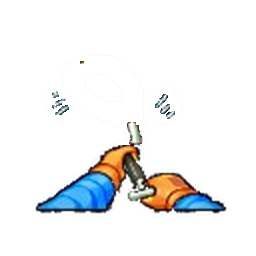
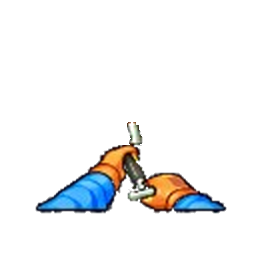
backup: pre-reset snapshot

Changed region(s): [[0.5938, 0.3438, 0.6875, 0.4688], [0.1875, 0.3438, 0.2812, 0.4688], [0.3125, 0.2188, 0.3438, 0.25]]

diff --git a/README.md b/README.md
@@ -1,29 +1,38 @@
 # DogBoy (Bắt Chó) — 9/9/2026
 
-Godot 4.7.2 GDScript arcade: bắt chó trên nền làng Việt pixel-art, viewport 1280×720.
+Godot 4.7.2 GDScript arcade: port sát luật [Shiba Catch](GameThamKhao/source/logic.js) trên nền làng Việt pixel, viewport 1280×720.
 
 Godogen ([htdt/godogen](https://github.com/htdt/godogen)) is configured in this repo for asset generation and visual iteration. Stack stays **GDScript** (see `godot.md`). License of the published skills: `GODOGEN_LICENSE.md`.
 
 ## Built
 
 - `project.godot` — 1280×720, canvas_items stretch, Forward Plus
-- `main.tscn` — root scene (Background + ChoCo dog + Catcher)
-- `scripts/auto_scroll_bg.gd` — cover-fit background (`assets/HinhNen/HinhNen1.png`)
-- `scripts/parallax_bg.gd` — parallax scrolling 4 lớp (mountains → village_mid → main → foreground_grass)
-- `scripts/wind_effect.gd` — hiệu ứng gió: lá bay + bụi cuộn từ phải sang trái
-- `scripts/game_layout.gd` — shared dog-lane / catch-zone layout
-- `scripts/dog_runner.gd` — dog crosses R→L on an 8-frame sheet canter; jumps on a miss; turns and sits while being reeled
-- `scripts/catcher.gd` — first-person lasso: idle, ready, windup, swing, catch, miss
-- `scripts/hud.gd` — pixel HUD: score (bone), 60s clock, 3 paw lives, catch spark / miss stamp, play to retry
-- `scripts/main.gd` — injects the 15s throw driver only while Movie Maker is recording
-- `assets/Avatar/swing/` — curated frames: setup from `dong-tac-tay.png`, spin from the 14–23 sheet (15 poses)
-- `assets/HinhNen/layers/` — parallax layers: mountains, village_mid, foreground_grass, wind_particles
-- `test/capture_catcher.gd` — throwaway still-capture helper (globalized-path PNGs)
-- `screenshots/result/video.mp4` — 15s proof clip (miss → catch → miss → catch, HUD score/lives)
+- `main.tscn` — Background + LassoBehind + ChoCo + LassoFront + Catcher + HUD
+- `scripts/game_session.gd` — single source of truth (1/60s): ready/idle/windup/throw/close/tug/caught/retract/break/paused/over
+- `scripts/dog_atlas.gd` — neck in 400×280 cell; `neck_world` after scale/rotate
+- `scripts/dog_runner.gd` — follows session (run / sprint escape / turn / front tug / caught sit). No jump-on-miss
+- `scripts/catcher.gd` — player aim (mouse / ← →), tap to throw or mash tug; no auto-aim
+- `scripts/lasso_draw.gd` — two-half ellipse + pole + quadratic rope + idle reticle
+- `scripts/hud.gd` — 4-digit score, combo +25, 60s clock, tug bars, overlay Sẵn sàng / Tạm dừng / Hết giờ (no paw lives)
+- `scripts/auto_scroll_bg.gd` / `parallax_bg.gd` / `wind_effect.gd` / `game_layout.gd`
+- `assets/Animal/choco_frames.tres` — run / walk / sprint / turn / front + idle/look/jump/caught/sit
+- `assets/Avatar/swing/` — forearm poses with baked lasso stripped (`screenshots/strip_lasso.py`)
+- `test/presentation_driver.gd` — 15s @ 30fps: miss, hit+mash tug, miss, hit+tug
+- `screenshots/result/video.mp4` — proof clip
 
 ## Left
 
-- Coin-op attract loop / title screen (play button art is in `assets/UI/btn_play.png`)
+- PixelLab pass if topping up gens (cleaner pole tip, optional extra hand frames)
+- Longer coin-op attract (overlay start is enough for now)
+
+## Controls
+
+- Aim: mouse X or ← → (100–1180)
+- Throw / tug mash: click or Space (hold does not count; 0.065s rate)
+- Pause: P or Esc
+- Restart after over: play button or R
+
+Scoring: `100 + combo*25` on a won tug. Round is 60s.
 
 ## Godogen
 
@@ -39,18 +48,18 @@ Godogen ([htdt/godogen](https://github.com/htdt/godogen)) is configured in this 
 | Name | Description | Size | Path | Cost |
 |------|-------------|------|------|------|
 | HinhNen1 | Village backdrop | 1280×720 fullscreen | `assets/HinhNen/HinhNen1.png` | existing |
-| Mountains | Distant mountains parallax layer | 1280×720 | `assets/HinhNen/layers/mountains.jpg` | planned |
-| Village Mid | Mid-ground village parallax layer | 1280×720 | `assets/HinhNen/layers/village_mid.jpg` | planned |
-| Foreground Grass | Foreground grass & flowers layer | 1280×720 | `assets/HinhNen/layers/foreground_grass.jpg` | planned |
-| Wind Particles | Wind leaf/dust overlay | 1280×720 | `assets/HinhNen/layers/wind_particles.jpg` | planned |
-| ChoCo walk | 8-frame left canter rearranged from the Animal sheet | 400×280 | `assets/Animal/frames/` (sprint/jump/run), `choco_frames.tres` | user sheet |
-| Catcher sheet | Curated first-person lasso (15 poses) | 256×256 | `assets/Avatar/dong-tac-tay.png`, `assets/Avatar/swing/`, `catcher_frames.tres` | user sheet, local slice |
+| Mountains | Distant mountains parallax layer | 1280×720 | `assets/HinhNen/layers/mountains.jpg` | AI generated |
+| Village Mid | Mid-ground village parallax layer | 1280×720 | `assets/HinhNen/layers/village_mid.jpg` | AI generated |
+| Foreground Grass | Foreground grass & flowers layer | 1280×720 | `assets/HinhNen/layers/foreground_grass.jpg` | AI generated |
+| Wind Particles | Wind leaf/dust overlay | 1280×720 | `assets/HinhNen/layers/wind_particles.jpg` | AI generated |
+| ChoCo clips | run 8 / walk 6 / sprint 6 / front 6 / turn 3 from Animal sheet | 400×280 | `assets/Animal/frames/`, `choco_frames.tres` | user sheet |
+| Catcher poses | Forearm + pole; lasso drawn in code | ~256×256 | `assets/Avatar/swing/`, `catcher_frames.tres` | user sheet, local strip |
 | icon_bone | Golden dog-bone score icon | 64×64 HUD | `assets/UI/icon_bone.png` | PixelLab trial |
 | icon_clock | Round analog clock / timer | 64×64 HUD | `assets/UI/icon_clock.png` | PixelLab trial |
 | icon_miss | Red miss stamp | 64×64 flash | `assets/UI/icon_miss.png` | PixelLab trial |
 | vfx_catch_spark | Gold catch burst | 128×128 VFX | `assets/UI/vfx_catch_spark.png` | PixelLab trial |
 | hud_plaque | Wooden score plaque | 256×64 HUD | `assets/UI/hud_plaque.png` | PixelLab trial |
 | icon_lasso | Hemp lasso loop (ready pulse) | 64×64 HUD | `assets/UI/icon_lasso.png` | PixelLab trial |
-| icon_paw | Paw-print lives | 48×48 HUD | `assets/UI/icon_paw.png` | PixelLab trial |
+| icon_paw | Paw-print (unused this round) | 48×48 HUD | `assets/UI/icon_paw.png` | PixelLab trial |
 | btn_play | Wooden play disc | 96×96 retry | `assets/UI/btn_play.png` | PixelLab trial |
 | leaf_banana | Banana leaf for wind particles | 32×32 wind | `assets/HieuUng/leaf_banana.png` | PixelLab trial |
